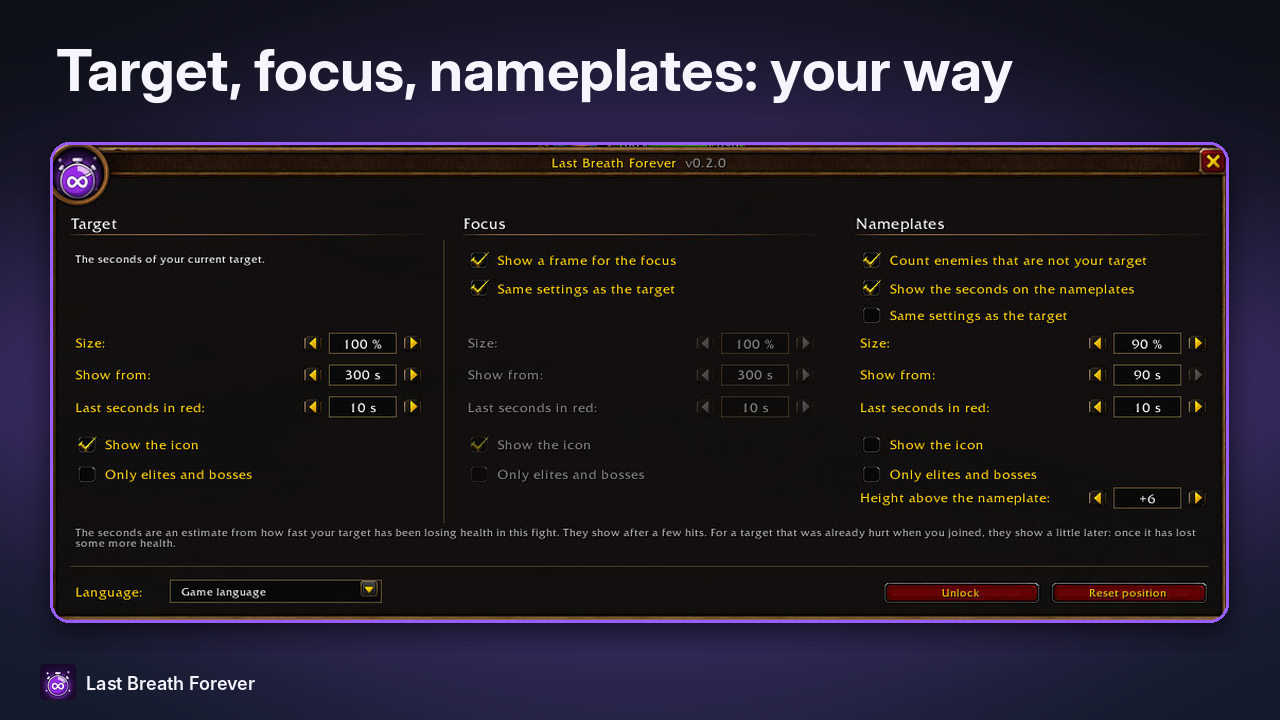
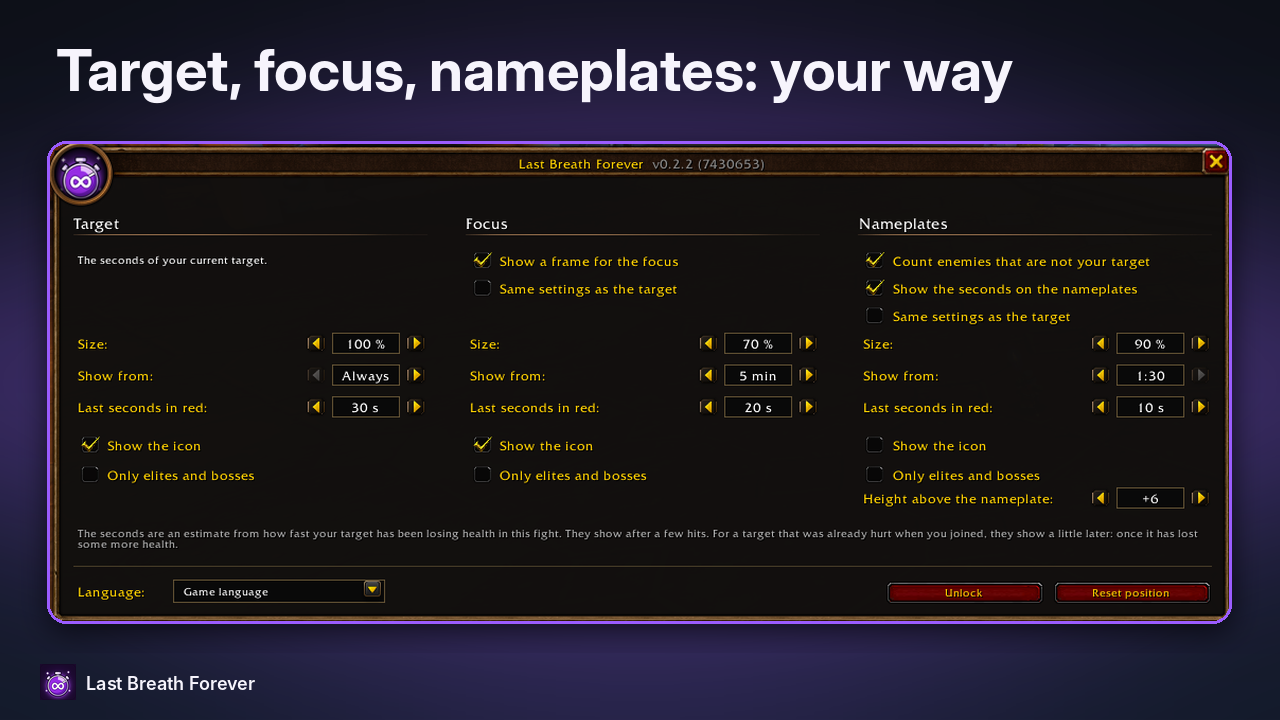
Last Breath Forever 0.2.2 (#6)
* Settings show times as 1 min, 1:30, 5 min; version 0.2.2

* Gallery: settings window of 0.2.2

* Gallery: settings window from the uncompressed screenshot

---------

diff --git a/tools/gallery.py b/tools/gallery.py
@@ -1,8 +1,8 @@
 # CurseForge gallery images (1280x720) and the GitHub social preview (1280x640) from the owner's
 # in-game screenshots (English addon texts), in the gallery style of the Forever series.
 # Usage: python3 tools/gallery.py <work dir>/   (needs Pillow and the Inter fonts; not in the zip)
-# The work dir holds images/<name>.jpg and the icon as icon.png; the results go to <work dir>/out/.
-import sys
+# The work dir holds images/<name>.png (or .jpg) and the icon as icon.png; the results go to <work dir>/out/.
+import os, sys
 from PIL import Image, ImageDraw, ImageFilter, ImageFont
 BASE = sys.argv[1].rstrip("/") + "/" if len(sys.argv) > 1 else "./"
 W, H = 1280, 720
@@ -25,7 +25,8 @@ def background(h, glow_box):
     return Image.composite(Image.new("RGB", (W, h), ACCENT), bg, g)
 
 def shot(name, box, scale, blur=()):
-    im = Image.open(BASE + "images/%s.jpg" % name).convert("RGB")
+    path = BASE + "images/%s." % name
+    im = Image.open(path + "png" if os.path.exists(path + "png") else path + "jpg").convert("RGB")
     for b in blur: # names of real characters
         im.paste(im.crop(b).filter(ImageFilter.GaussianBlur(7)), b[:2])
     im = im.crop(box)
@@ -87,6 +88,7 @@ make("03_time_to_die.png", "Know when your target dies",
 both = shot("41", (1040, 205, 1560, 360), 2.0, [(1210, 321, 1282, 333), (1466, 346, 1538, 358)])
 make("04_last_seconds_focus.png", "Save the cooldown for the end",
      "The last seconds turn red. A second frame for your focus: healers keep the boss there.", both)
-opts = shot("165052", (0, 178, 1110, 630), 1.06)
+# 20 Nov, 0.2.2: the settings window with the new time labels (focus and nameplates with their own rows)
+opts = shot("191538", (36, 322, 1152, 776), 1.06)
 make("05_settings.png", "Target, focus, nameplates: your way", None, opts)
 social(shot("172220", (760, 172, 1300, 335), 1.2))

diff --git a/CURSEFORGE.md b/CURSEFORGE.md
@@ -32,7 +32,7 @@ Switch on the **focus frame** and `/focus` the boss: its seconds stay on screen 
 Three columns, target, focus and nameplates (the focus frame and the nameplates can use the target's settings or their own):
 
 - **Show from**: only once about 30 s, 1, 2, 5 or 10 minutes or less are left (5 minutes by default), or always.
-- **Last seconds in red**: off, 5, 10, 15, 20, 30, 45 or 60 s.
+- **Last seconds in red**: off, 5, 10, 15, 20, 30 or 45 s, or 1 min.
 - **Only elites and bosses**, **size**, **icon**.
 - **Nameplates:** count enemies that are not your target, seconds above every nameplate, their own size and rules (from 30 s, 1 min or 1:30), the height above the nameplate.
 - **Language**: your game's language or any of the 9; the window opens where you left it.

diff --git a/CHANGELOG.md b/CHANGELOG.md
@@ -1,3 +1,8 @@
+**Last Breath Forever 0.2.2**
+
+Also new:
+- The settings show times the way you read them: "Show from" as 1 min, 1:30, 2 min, 5 min or 10 min instead of 60 s, 90 s, 120 s, 300 s or 600 s; "Last seconds in red" as 1 min instead of 60 s. In all 9 languages.
+
 **Last Breath Forever 0.2.1**
 
 Also new:
